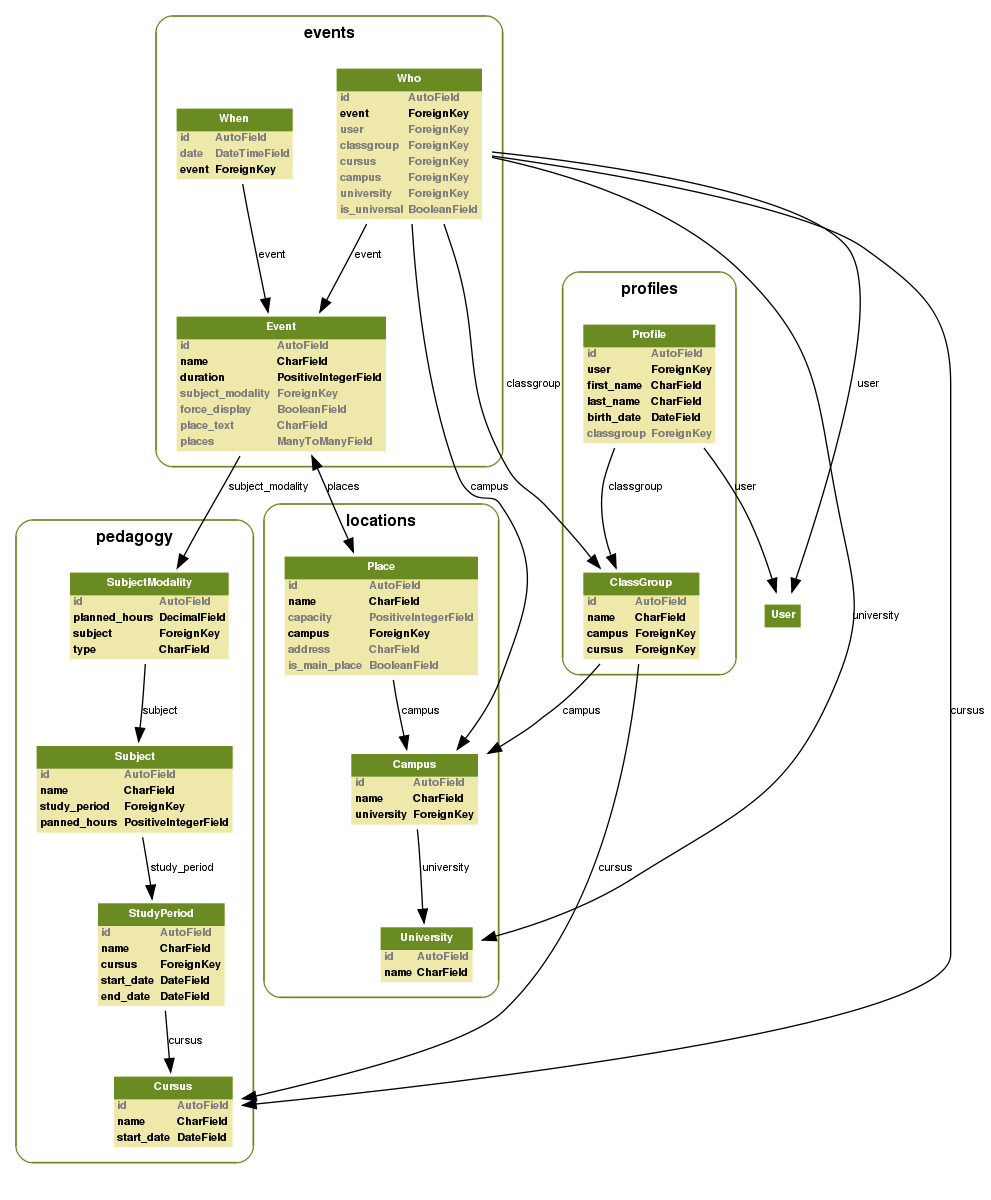
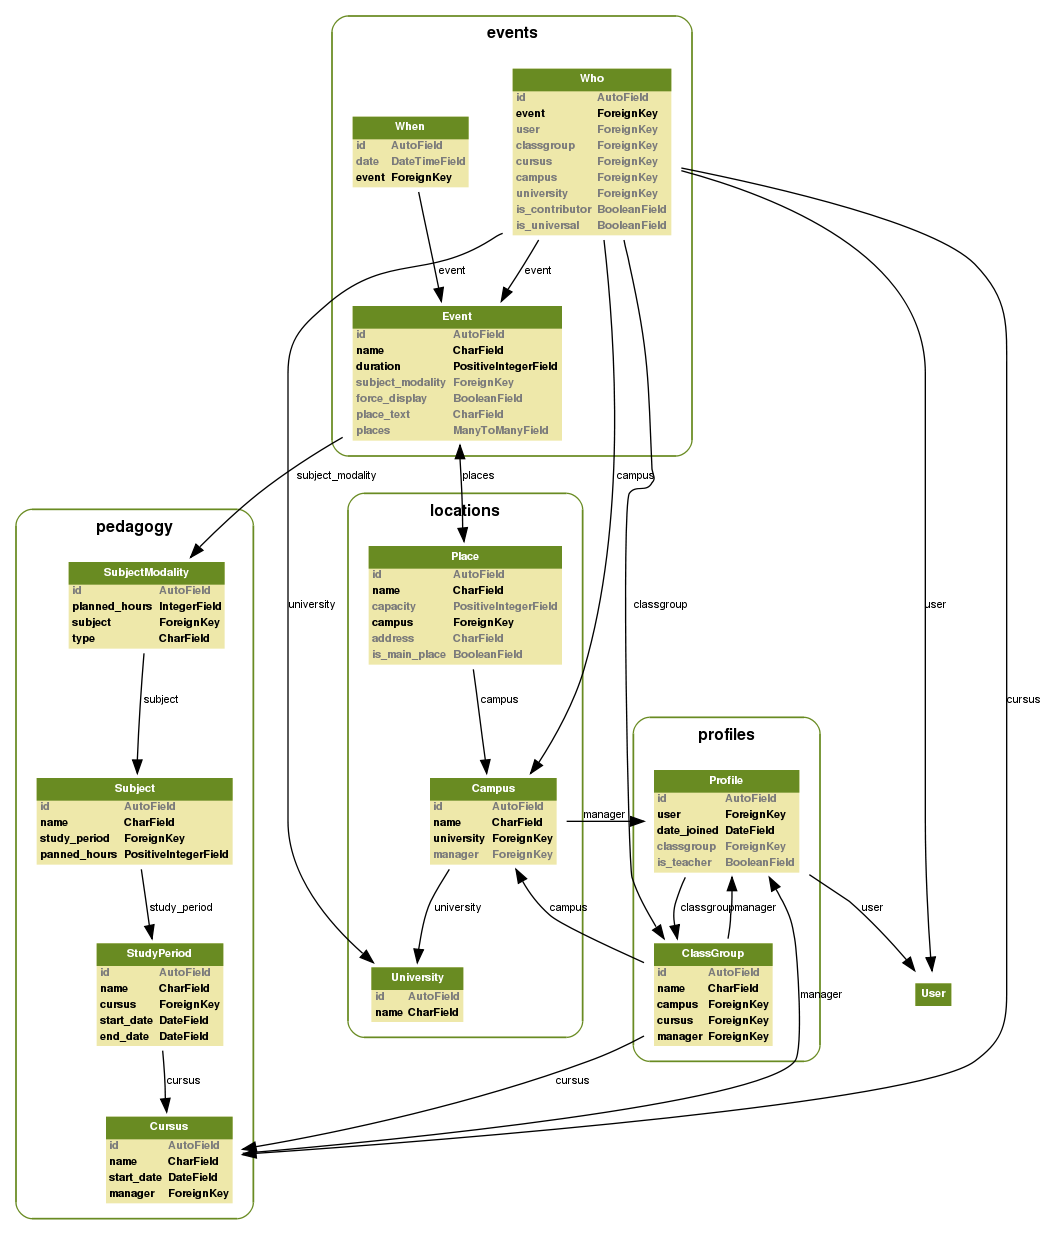
Rapport's work

diff --git a/doc/rapport/couts.rst b/doc/rapport/couts.rst
@@ -1,60 +1,92 @@
 Couts de la solution
 #####################
 
-Pour étudier le coût de notre application, nous devons prendre en compte l'investissment humain mais aussi l'investissement logiciel.
+Pour étudier le coût de notre application, nous avons pris en compte
+à la fois l'investissement humain et l'investissement logiciel (cout des
+licences etc.)
 
-Investissement Humain : 
+Investissement Humain :
 -----------------------
 
-Coût en homme jour:
+Coût en jour homme:
 
-    Analyse(modélisation, mokups) : 4 jour
-    Développement de l'interface administrateur : 4 jour
-    Authentification, gestion des droits utilisateurs : 2 jour
-    Implémentation google api, hightcharts : 1/2 jour
-    Style, css, ergonomie : 4 jours
-    Implémentation de FullCalendar + intéractions javascripts : 20 jour
-    Mise en production de la solution : 1/2 jour
-    Redaction de la documentation : 6 jour
-    Application mobile: 1/2 
-    Export ical : 1/2
+======================  ===================================================
+Cout (en jours homme)   Taches
+======================  ===================================================
+4                       Analyse(modélisation, mokups)
+4                       Développement de l'interface administrateur
+2                       Authentification, gestion des droits utilisateur
+1/2                     Affichage des graphiques, geolocalisation
+4                       Ergonomie du logiciel
+20                      Gestion du calendrier
+5                       Phase de tests, correction de bugs
+1/2                     Mise en production de la solution
+4                       Redaction de la documentation
+1/2                     Application mobile
+1/2                     Export iCal
+======================  ===================================================
 
-total 40 jour/homme
+Total: **43 jours homme**
 
 
-Nous somme un groupe de 4, et n'étant pas touours tous disponible au même date le travail s'est étalé sur 15 jours de travail, pour une représentation plus connotative veuillez vous référer au diagrame ci-dessous:
+L'équipe étant constitué de quatre personnes, nous nous sommes réparti le
+travail sur un total de 15 jours.
+
+Vosu pouvez vous referrer au diagramme de GANTT pour plus d'informations
+
 .. image:: pictures/Diagram_gantt.png
 
+Pour évaluer les couts, nous evaluons à 100 euros/jour le cout d'un developpeur
+en entreprise.
 
-En considerant notre niveau d'étude et l'experience de chacun en entreprise, on peut considérer que nous sommes 4 ingenieurs en developpement ce qui sur la grille salarial équivaux à 100 euro jour par personne.
-
-Pour developper Timetableasy nous avons donc eu un coût de main d'oeuvre de 40 jour * 100 euro soit 4000 euro.
+Le developpement de TIMETABLEEASY à donc eu un coût de "main d'oeuvre", de 40
+(jours) * 100 (€) = 4300€.
 
 
 Investissement Logiciel :
 -------------------------
 
-Nous avons utilisé uniquements des outils open source ce qui fixe notre montant en dépense logiciel à 0 euro.
+Nous nous sommes appuyé uniquement sur des outils open source pour la *
+réalisation de TIMETABLEEASY, ce qui fixe le coût des licences à 0.
+
+Par contre, il est necessaire de prendre en compte le coût des serveurs utilisés
+pour deployer la solution.
 
 
+Etude de la concurence et fixation d'un prix pour TIMETABLEEASY:
+-----------------------------------------------------------------
 
-Etude de la concurence et fixation d'un prix pour Timetableasy:
----------------------------------------------------------------
+Le premier concurent à notre logiciel est hyperplanning.
+Bien implenté dans le monde de l'éducation francaise ils fixent les tarifs
+via un forfait annuel ou en vendant la licence de son logiciel.
 
-Le premier concurent à notre logiciel est hyperplanning, bien implenter dans le monde l"education francaise il fixe les tarifs de son système de planning avec un forfait annuel ou en vendant la licence de son logiciel.
-Il possède trois type offre :
-    - Monoposte avec un seul poste possédant la capacité d'administrer le systeme de planning à 1140 euro HT annuel ou 3406 euro HT à vie
-    - Reseaux local à 2376 euro HT à l'année, 7114 euro HT à vie 
+Trois types d'offre sont disponibles :
+
+    - Monoposte avec un seul poste possédant la capacité d'administrer
+      le systeme de planning à 1140 euro HT annuel ou 3406 euro HT pour une
+      licence "à vie".
+    - Reseaux local à 2376 euro HT à l'année, 7114 euro HT à vie
     - Reseau local et internet à 3406 euros à l'année et 10204 euro HT à vie.
-De plus pour pouvoir mettre en ligne les plannings, le client devra s'offrir un site internet non compris dans l'offre.
 
-Au niveau des fonctionalités, hyperplanning possède une fonction pour comptabiliser l'absence et la présence des élèves que nous ne possédont pas.
-En revanche nous possédons une capacité à gérer plusieurs universités, la géolocation des différentes universités et autres lieux, la représentation des graphique de nos informations (hors calendrier), et un plus large panel de type d'utilisateur.
+Pour pouvoir mettre en ligne les plannings, le client devra s'offrir un hebergement
+non compris dans l'offre elle même.
 
-Notre logiciel lui, fournis un site internet, mais peut aussi être inclus dans un site internet déjà existant.
+Au niveau des fonctionalités, hyperplanning possède une fonction pour comptabiliser
+l'absence et la présence des élèves que nous ne possédont pas.
 
-Etant donnée le faible demande, hyperplanning et ses concurent répondant déjà à une bonne part du marché nous devons nous aligner sur les prix du marché.
+En revanche nous possédons une capacité à gérer plusieurs universités, la géolocation
+des différentes universités et autres lieux, la représentation graphique de nos informations
+(hors calendrier), et un plus large panel de types d'utilisateurs.
 
-Un prix de 2000 euro HT me parait correct aux vues des fonctionnalités proposées et nous permettrai au bout de 2 ventes de rembourser l'investissement que nous avons fait.
-Chaque client sera libre de demander un personnalisation ou des modules complémentaires à un pris forfaitaire permettant au différents développeurs de maintenir et d'enrichir l'application.
-L'hebergement n'est pas inclus dans le prix du logiciel, le logiciel est installable sur toute les plateforme et si le client le demande nous pouvons nous occupez de l'installation et de la maintenances.
+Etant donnée le faible demande, hyperplanning et ses concurent répondant déjà à une bonne
+part du marché, et nous devons nous aligner sur les prix du marché.
+
+Un prix de 2000 euro HT me parait correct aux vues des fonctionnalités proposées et nous
+permettrai au bout de 2 ventes de rembourser l'investissement que nous avons fait.
+
+Chaque client sera libre de demander une personnalisation, ou l'ajout de modules complémentaires
+à un pris forfaitaire permettant au différents développeurs de maintenir et d'enrichir
+l'application.
+
+L'hebergement n'est pas inclus dans le prix du logiciel. Nous proposons des forfaits qui 
+permettent d'essayer le logiciel sur des courtes durées, pour ensuite s'engager.

diff --git a/doc/rapport/organisation_groupe.rst b/doc/rapport/organisation_groupe.rst
@@ -10,9 +10,14 @@ Attribution des rôles
 Le seul rôle spécifique que nous ayons attribué était celui de chef de projet,
 qui est allé à Alexis en raison de son expérience sur des projets similaires.
 
+Par ailleurs, nous avons tous effectué les taches selon ce qui nous interessait.
+Nicolas à pu par exemple travailler sur la mise en place d'un système extensible
+de gestion d'elements (CRUD) alors que Guillaume s'occupait de la gestion du
+calendrier. Nous avons tous travaillé sur quasiment l'ensemble des
+fonctionalités du logiciel, si nous y voyons des modifications à apporter.
+
 Répartition des tâches
 ----------------------
-
 
 Travaux centraux
 '''''''''''''''''
@@ -81,10 +86,6 @@ commun pour des réunions d'avancement. Nous avons cependant réussi à pallier 
 problème grâce à Mumble [*]_ et au fait que nous étions suffisamment avancés pour
 permettre un développement relativement indépendant des différentes parties de
 l'application.
-
-
-Notes et annexes
-=================
 
 .. [*] Fullcalendar est une bibliothèque Javascript dédiée à l'affichage de
    calendriers : http://arshaw.com/fullcalendar/

diff --git a/doc/rapport/introduction.rst b/doc/rapport/introduction.rst
@@ -1,0 +1,26 @@
+Introduction
+##############
+
+:Auteurs:
+    * Guillaume Espanel
+    * Alexis Metaireau
+    * Nicolas Morel
+    * Julien Grande
+
+:Version:
+    1.0
+
+Pour réaliser EasyTimeTable, nous avons choisi d'utiliser des technologies qui 
+nous tenaient à coeur, et le mot d'ordre était l'apprentissage. Nous avons
+souhaité avant tout profiter de cette opportunité pour découvrir de nouvelles
+approches à la réalisation de sites internet.
+
+C'est finalement avec un plaisir non dissimulé que nous pouvons vous présenter
+la première mouture d'EasyTimeTable. Cette version n'est sans doute pas
+parfaite, et comme tout logiciel, se devrait être en continuelle évolution,
+grace aux differents retours des utilisateurs.
+
+Nous avons cependant mis en place une architecture solide,qui pourra acceuillir 
+les futures évolutions du logiciel, et qui comporte d'ores et déjà les
+fonctionalités les plus importantes (Gestion de l'emploi du temps, des personnes
+et des universités/campus)

diff --git a/doc/rapport/analyse.rst b/doc/rapport/analyse.rst
@@ -13,9 +13,7 @@ Analyse et compréhension du besoin métier
 Pour commencer, nous avons effecuté un mind maping, après lecture de l'ensemble
 des documentations fournies par le client. L'idée ici étant de mettre à plat 
 notre compréhension des besoins utilisateurs, pour ensuite travailler sur la
-modélisation du besoin.
-
-.. image:: pictures/mindmapping.png
+modélisation du besoin. Vous pouvez trouver le resultat sur la page suivante.
 
 Differents cas d'utilisation
 =============================
@@ -50,7 +48,6 @@ Les deux images ci dessous représentent de manière exhaustive ou non les
 relations entre les differentes données.
 
 .. image:: pictures/models.png
-.. image:: pictures/models-simple.png
 
 Architecture logicielle sous jacente
 =====================================

diff --git a/doc/rapport/presentation_groupe.rst b/doc/rapport/presentation_groupe.rst
@@ -1,15 +1,6 @@
 Présentation du projet et répartition des tâches
 #################################################
 
-:Auteurs:
-    * Guillaume Espanel
-    * Alexis Metaireau
-    * Nicolas Morel
-    * Julien Grande
-
-:Version:
-    1.0
-
 Composition du grouge
 ======================
 
